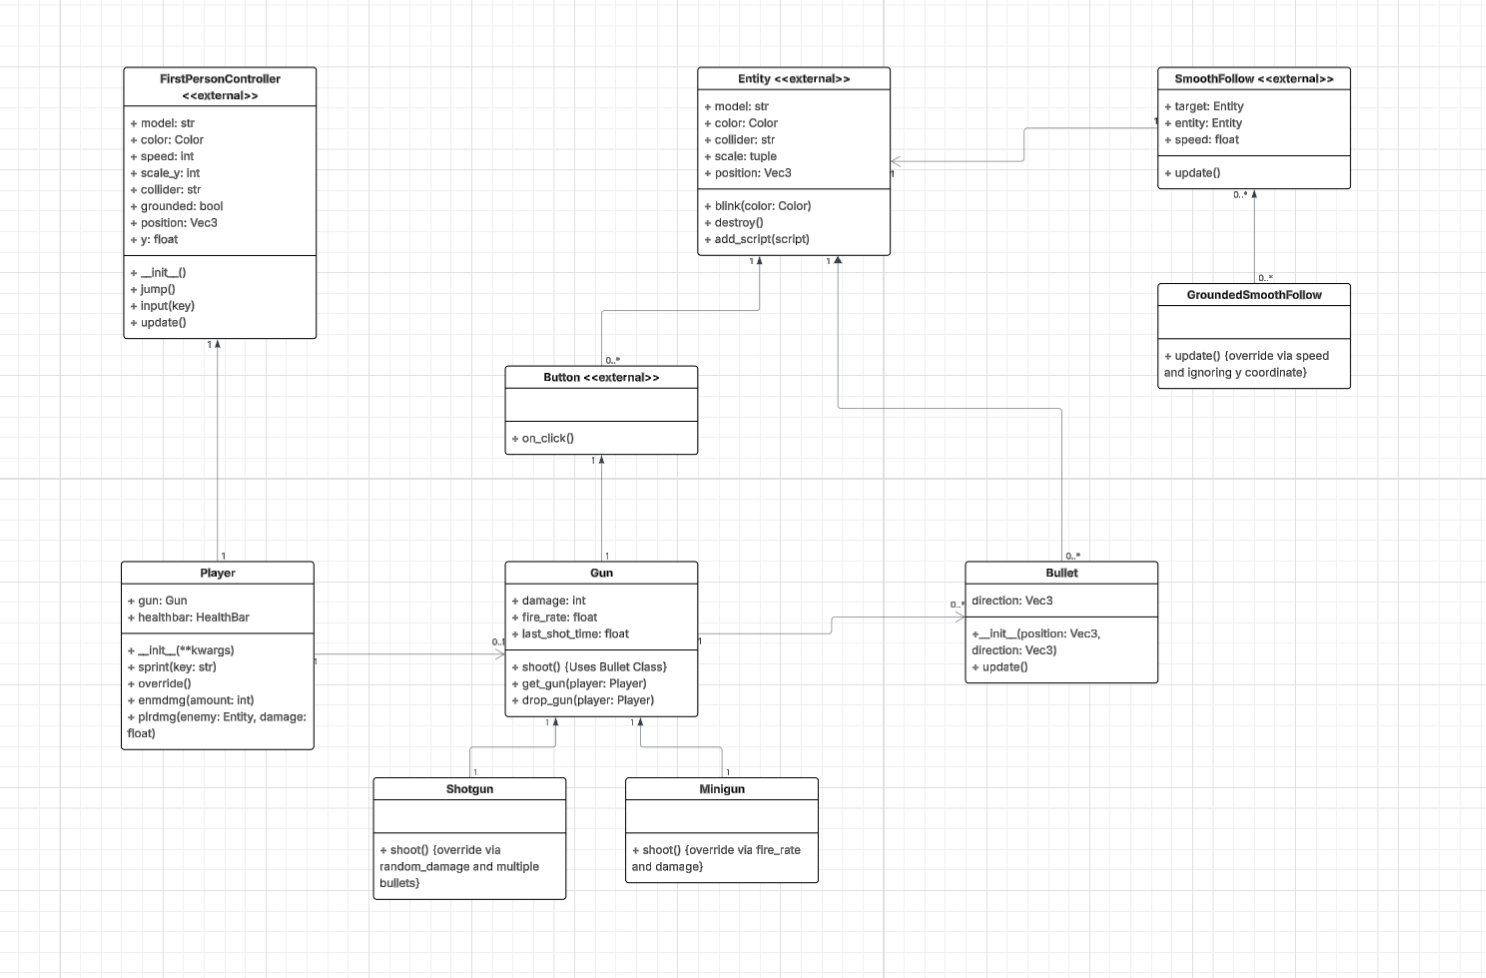
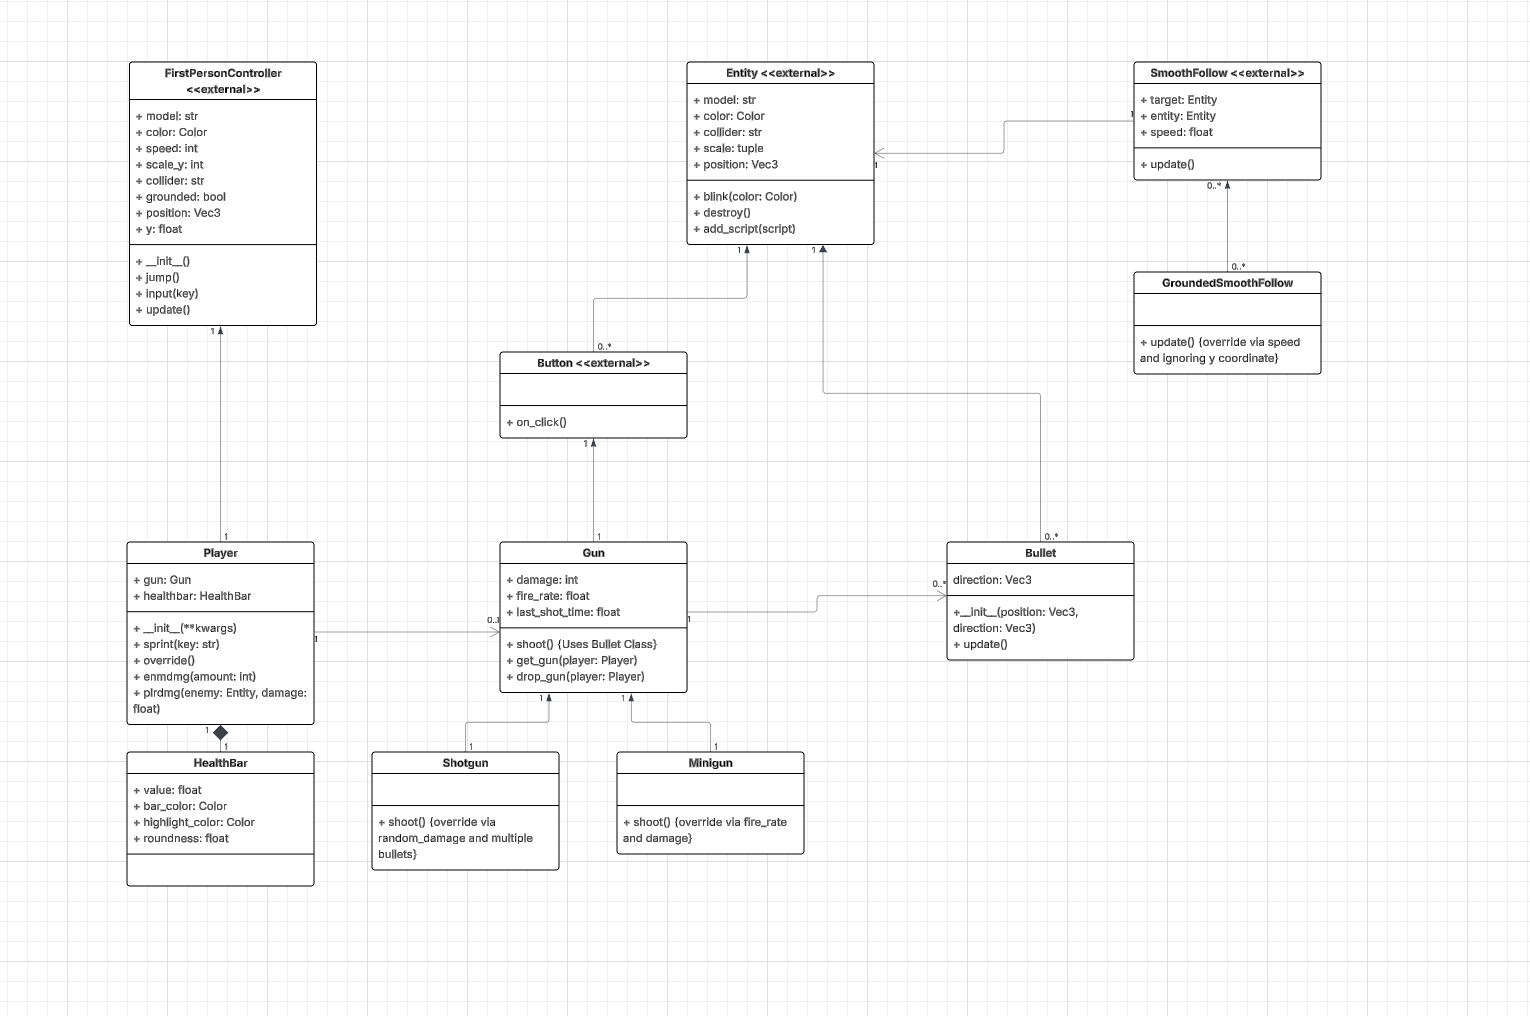
Finished the main Sprint 4 documentation. Ready to update the structure chart and the class diagram.
Also changed the Health Pack spawning to 20-50 seconds because of the short spawning times. I will soon get different textures for the map. Also due to how the hookshot allows the player to avoid any enemies, I will either remove or make the hookshot drop the player after a certain period of time.

diff --git a/Sprint4.py b/Sprint4.py
@@ -166,7 +166,7 @@ def survival_game():
         z = random.uniform(-50, 50) # Random z-coordinate
         healthpack = HealthPack(position=(x, 1, z))
         healthpacks_alive.append(healthpack)
-        invoke(spawn_healthpack_randomly, delay=random.uniform(10, 20))
+        invoke(spawn_healthpack_randomly, delay=random.uniform(20, 50))
 
     # Calls the function
     spawn_healthpack_randomly()

diff --git a/PROJECT_DOCUMENTATION.md b/PROJECT_DOCUMENTATION.md
@@ -1217,3 +1217,21 @@ app.run()
 3. The code demonstrates good readability and maintainability. Classes are not only modularized from the main gameflow, but also included inside these classes are functions which I implemented into these class methods for readability and to avoid cluttering, as well as future maintainability. Docstrings and comments explain the purpose of each method inside the classes. From Sprint 2, error handling remains the same. Overall, the code is clean, well documented, and easy to maintain.
 
 4. Several improvements can be made in Sprint 4. As I have already implemented OOP fundamentals and also added many features regarding game logic, the next sprint will be mostly about touch-ups and another feature to enhance the players experience: Shaders and/or proper models. This would allow for user engagement. These enhancements will allow for a polished, complete product incorporating both logic and creativity. (Forgot to mention, but will also implement private, public and protected attributes and methods to further secure encapsulation).
+***
+
+# Sprint 4
+***
+## Design
+***
+### Identify Potential Enhancements
+***
+- Enhancements or features I could add are new models, shaders, and an increasingly better map design. These will allow for further user engagement and the synchronisation of logic and creative based application. I will also implement private, public, and protected attributes and methods in order to secure further encapsulation, and the major feature I will incorporate will be healthpacks, a way for players to heal after sustaining damage. These will spawn periodically on the map healing 25 HP each, and will spawn rarely, giving the player a sincere challenge. Otherwise in the simulator gamemode, this will simply be implemented as a spawning feature using the "r" key.
+***
+### Explain the Integration Process
+***
+- It would be quite simple. Replacing current models will require little to no effort, and map design would simply require me to add e.g barriers to walls, more hookshots, possibly a different sky texture such as red for the signature "Doom Hell" and the map texture can also correspond to that as well. Healthpacks can be added in as a seperate class, affiliated with the player class due to modifying the player's healthbar which is a composition of the Player class as shown in my previous UML Class Diagram.
+***
+### Update Structure Chart/Class Diagram as Required
+
+***
+## Build and Test and Launch
